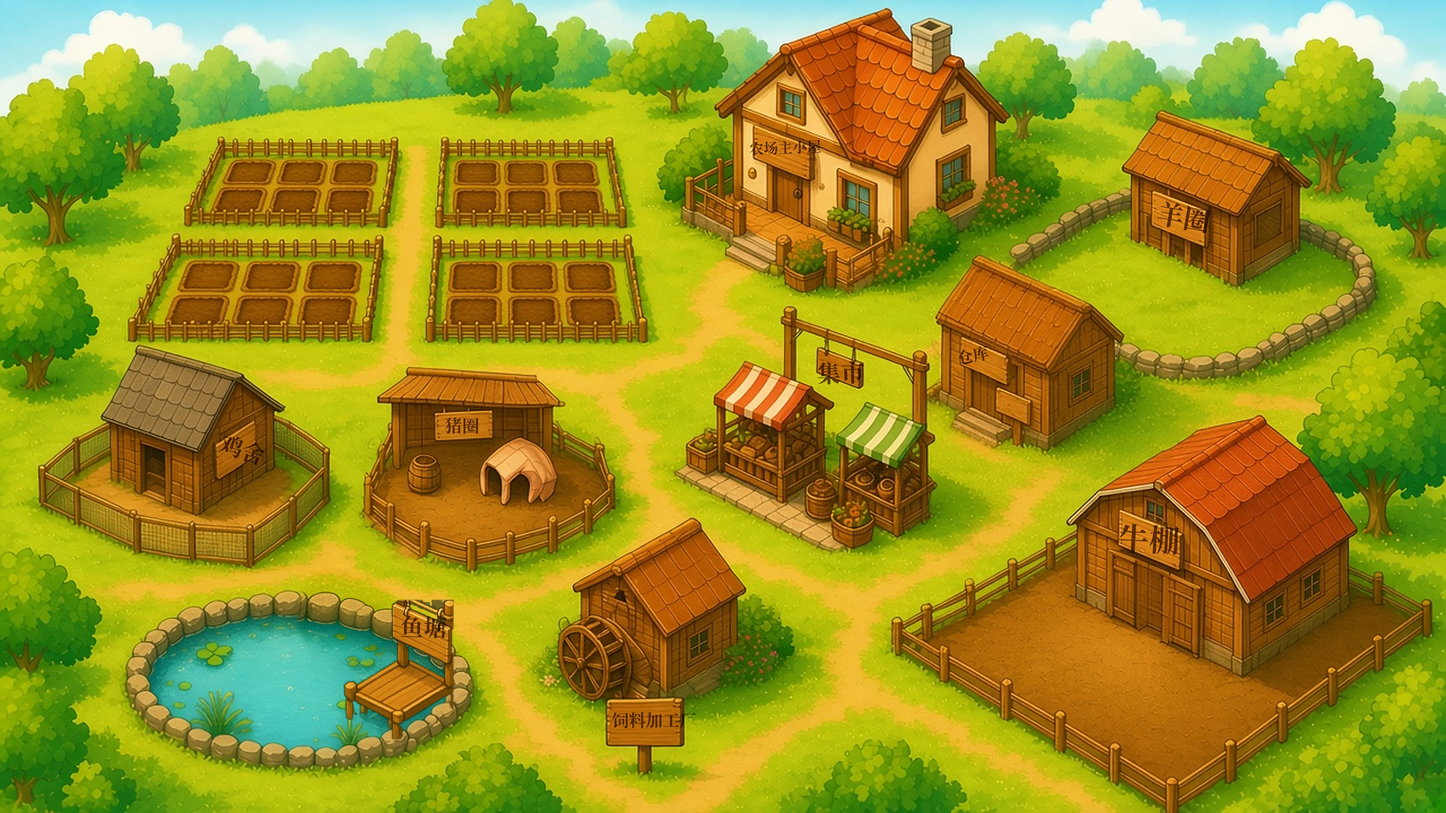
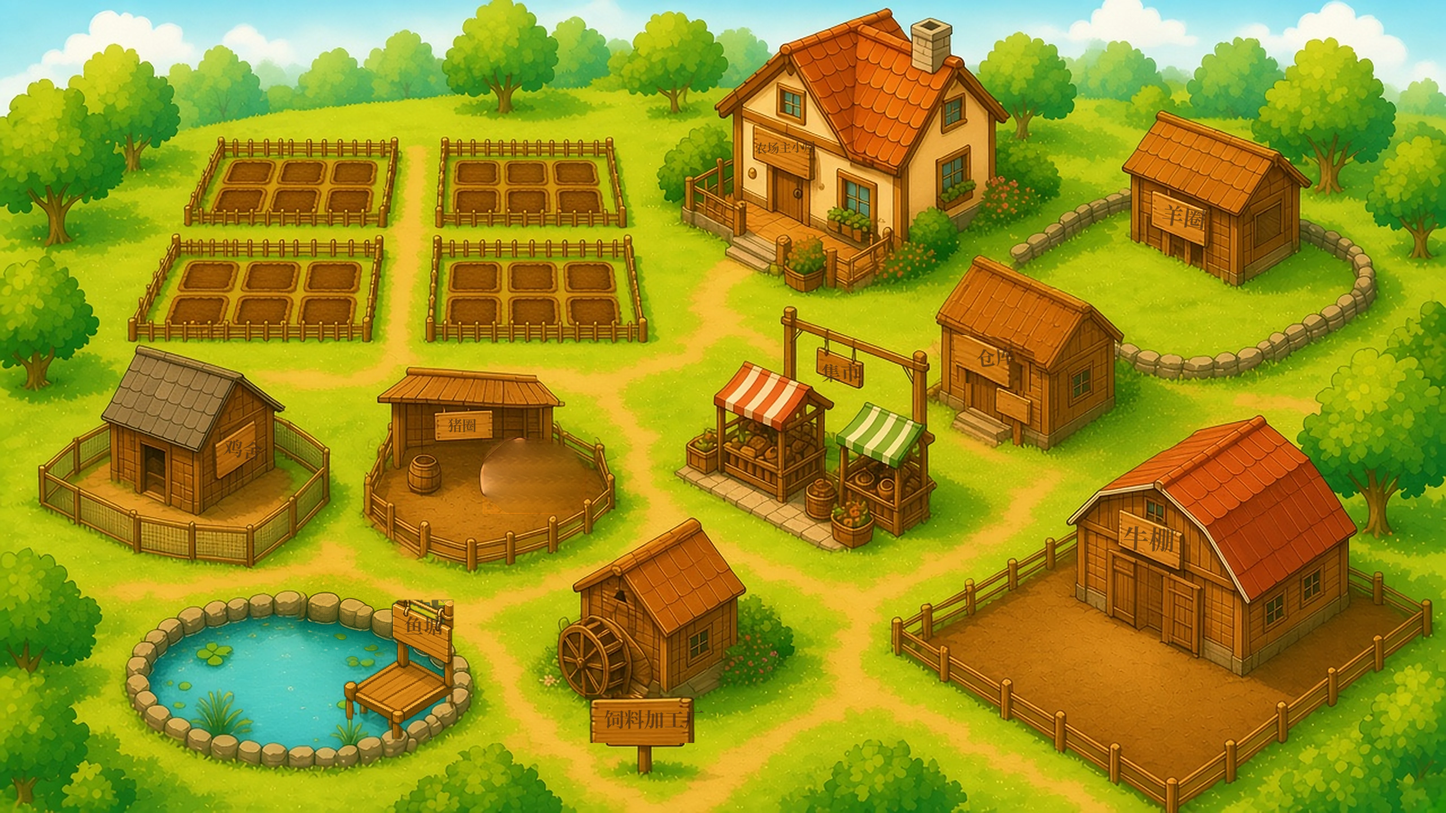
更新试玩版

diff --git a/src/render/mapLayout.js b/src/render/mapLayout.js
@@ -12,7 +12,7 @@ export const MAP_LAYOUT = {
     "w": 5120,
     "h": 2880
   },
-  "ANIMAL_SCALE": 1.17,
+  "ANIMAL_SCALE": 2.0,
   "FARMER_START": {
     "x": 2840,
     "y": 2040
@@ -967,77 +967,77 @@ export const MAP_LAYOUT = {
       "walk": [
         [
           1400,
-          1880
+          1872
         ],
         [
-          1380,
-          1780
+          1392,
+          1800
         ],
         [
-          1420,
-          1680
+          1440,
+          1712
         ],
         [
           1600,
+          1672
+        ],
+        [
+          1800,
           1660
         ],
         [
-          1660,
-          1760
+          2020,
+          1672
         ],
         [
-          1680,
-          1800
+          2140,
+          1728
         ],
         [
-          1960,
-          1800
+          2176,
+          1808
+        ],
+        [
+          2152,
+          1888
         ],
         [
           2000,
-          1760
+          1944
         ],
         [
-          2060,
-          1680
+          1780,
+          1968
         ],
         [
-          2088,
-          1780
+          1560,
+          1944
         ],
         [
-          2060,
-          1880
-        ],
-        [
-          1720,
-          1920
-        ],
-        [
-          1480,
+          1432,
           1912
         ]
       ],
       "slots": [
         {
           "index": 0,
-          "cx": 1520,
-          "cy": 1840
+          "cx": 1512,
+          "cy": 1880
         },
         {
           "index": 1,
-          "cx": 1720,
-          "cy": 1872
+          "cx": 1780,
+          "cy": 1912
         },
         {
           "index": 2,
-          "cx": 1960,
+          "cx": 2060,
           "cy": 1860
         },
         {
           "index": 3,
-          "cx": 2000,
-          "cy": 1820
+          "cx": 1880,
+          "cy": 1712
         }
       ]
     },
@@ -1149,22 +1149,22 @@ export const MAP_LAYOUT = {
         {
           "index": 0,
           "cx": 840,
-          "cy": 2440
+          "cy": 2432
         },
         {
           "index": 1,
-          "cx": 1000,
-          "cy": 2360
+          "cx": 992,
+          "cy": 2368
         },
         {
           "index": 2,
-          "cx": 1120,
-          "cy": 2480
+          "cx": 1128,
+          "cy": 2448
         },
         {
           "index": 3,
-          "cx": 920,
-          "cy": 2540
+          "cx": 912,
+          "cy": 2488
         }
       ]
     },
@@ -1361,8 +1361,8 @@ export const MAP_LAYOUT = {
         },
         {
           "index": 3,
-          "cx": 4600,
-          "cy": 2600
+          "cx": 4560,
+          "cy": 2612
         }
       ]
     },
@@ -1642,11 +1642,11 @@ export const MAP_LAYOUT = {
     {
       "id": "chicken",
       "text": "鸡舍",
-      "x": 768,
-      "y": 1512,
-      "w": 184,
-      "h": 152,
-      "angle": 18
+      "x": 772,
+      "y": 1520,
+      "w": 176,
+      "h": 136,
+      "angle": 8
     },
     {
       "id": "pig",
@@ -1673,16 +1673,16 @@ export const MAP_LAYOUT = {
       "y": 696,
       "w": 240,
       "h": 136,
-      "angle": 10
+      "angle": 8
     },
     {
       "id": "pond",
       "text": "鱼塘",
-      "x": 1404,
-      "y": 2136,
-      "w": 192,
-      "h": 160,
-      "angle": 1
+      "x": 1408,
+      "y": 2144,
+      "w": 184,
+      "h": 136,
+      "angle": 0
     },
     {
       "id": "market",
@@ -1696,28 +1696,28 @@ export const MAP_LAYOUT = {
     {
       "id": "shop",
       "text": "仓库",
-      "x": 3360,
-      "y": 1216,
-      "w": 168,
-      "h": 80,
-      "angle": -12
+      "x": 3400,
+      "y": 1200,
+      "w": 248,
+      "h": 120,
+      "angle": -7
     },
     {
       "id": "mill",
       "text": "饲料加工厂",
-      "x": 2144,
+      "x": 2088,
       "y": 2472,
-      "w": 344,
-      "h": 152,
+      "w": 456,
+      "h": 144,
       "angle": 0
     },
     {
       "id": "house",
       "text": "农场主小屋",
-      "x": 2632,
-      "y": 448,
-      "w": 296,
-      "h": 144,
+      "x": 2640,
+      "y": 456,
+      "w": 280,
+      "h": 128,
       "angle": -2
     }
   ]

diff --git a/src/render/farmView.js b/src/render/farmView.js
@@ -48,7 +48,26 @@ export function cameraForZone(layout, id) {
   if(!b)return null;
   return fitCamera(layout,b,id==='farm'?64:12,id==='farm'?80:id==='pig'?200:56);
 }
-export function fieldCamera(layout){const b=zoneBounds(layout,'farm');return fitCamera({...layout,cssH:Math.max(160,layout.cssH-82)},{x:b.x-35,y:b.y-35,w:b.w+70,h:b.h+100},70,85);}
+export function fieldCamera(layout){
+  const field=zoneBounds(layout,'farm');
+  const house=layout.zones.find(z=>z.id==='house').bounds;
+  const sign=MAP_LAYOUT.SIGNS.find(s=>s.id==='house');
+  const left=70,right=88,top=48,bottom=90;
+  const b={x:field.x-16,y:field.y-20,w:field.w+32,h:field.h+40};
+  let zoom=Math.max(WORLD.minZoom,Math.min(.85,(layout.cssW-left-right)/b.w,(layout.cssH-top-bottom)/b.h));
+  // Keep the cottage and its sign to the right of the shop button, even at x=0.
+  const hideAt=sign?sign.x:house.x;
+  zoom=Math.max(zoom,layout.cssW/Math.max(1,hideAt-8));
+  let x=left+(layout.cssW-left-right-b.w*zoom)/2-b.x*zoom;
+  let y=top+(layout.cssH-top-bottom-b.h*zoom)/2-b.y*zoom;
+  const maxRight=house.x-8;
+  if((layout.cssW-x)/zoom>maxRight)x=layout.cssW-maxRight*zoom;
+  const minLeft=field.x;
+  if(-x/zoom>minLeft)x=-minLeft*zoom+left;
+  const target={zoom,x,y};
+  clampCamera(target,layout.cssW,layout.cssH);
+  return target;
+}
 // Frame the cottage and all field beds, reserving the left navigation strip.
 export function homeCamera(layout) {
   const field=zoneBounds(layout,'farm'),house=layout.zones.find(z=>z.id==='house').bounds;
@@ -88,12 +107,12 @@ export function hitTestPlot(x, y, layout) {
 export function plotIndicatorSizes(zoom) {
   const bounded = (size, min, max) => Math.min(max, Math.max(min, size * zoom)) / zoom;
   return {
-    font: bounded(11, 12, 17),
-    barWidth: bounded(52, 40, 72),
-    barHeight: bounded(5, 4, 7),
+    font: bounded(8, 7.5, 11),
+    barWidth: bounded(34, 28, 46),
+    barHeight: bounded(3.2, 2.6, 4),
     sparkle: bounded(8, 3.2, 9),
-    gap: 4 / zoom,
-    stroke: bounded(2, 1.5, 2.5),
+    gap: 2 / zoom,
+    stroke: bounded(1.4, 1.1, 2),
   };
 }
 function drawStarSparkle(ctx,x,y,r,alpha){
@@ -131,11 +150,11 @@ export function drawFarm(ctx, state, layout, { now = Date.now(), animationNow = 
     const neighbors=corners.filter(c=>c!==tl && c!==opposite).sort((a,b)=>b[0]-a[0]);
     const [tr,bl]=neighbors,br=opposite;
     const shortAxis=Math.min(Math.hypot(tr[0]-tl[0],tr[1]-tl[1]),Math.hypot(bl[0]-tl[0],bl[1]-tl[1]));
-    const width=shortAxis*(frame===0?.50:ripe?.48:.53),height=width*(tall?1.38:1.05);
+    const width=shortAxis*(frame===0?.62:ripe?.70:.72),height=width*(tall?1.32:1.02);
     const cols=ripe && ['cabbage','pumpkin','potato'].includes(view.crop.id)?3:4;
     const plants=[];
     for(let row=0;row<3;row++)for(let col=0;col<cols;col++) {
-      const u=.14+.72*(col+.5)/cols,v=(tall?.36:.14)+(tall?.54:.72)*(row+.5)/3;
+      const u=.10+.80*(col+.5)/cols,v=(tall?.32:.10)+(tall?.60:.80)*(row+.5)/3;
       plants.push({x:(1-u)*(1-v)*tl[0]+u*(1-v)*tr[0]+(1-u)*v*bl[0]+u*v*br[0],
         y:(1-u)*(1-v)*tl[1]+u*(1-v)*tr[1]+(1-u)*v*bl[1]+u*v*br[1]});
     }
@@ -154,10 +173,12 @@ export function drawFarm(ctx, state, layout, { now = Date.now(), animationNow = 
       }
     } else {
       const {barWidth,barHeight,font,gap}=indicator;
-      const x=p.cx-barWidth/2,y=p.y-gap-barHeight;
+      const backY=Math.min(...corners.map(c=>c[1]));
+      // Sit the tidy timer just inside this bed's back edge so it does not cover the plot above.
+      const x=p.cx-barWidth/2,y=backY+gap;
       fillRoundRect(ctx,x,y,barWidth,barHeight,barHeight/2,'#593c2e');
       fillRoundRect(ctx,x,y,barWidth*view.progress,barHeight,barHeight/2,'#a9e873');
-      drawText(ctx,formatMs(view.remainingMs),p.cx,y-gap-font/2,{size:font,color:'#fff7df',shadow:true});
+      drawText(ctx,formatMs(view.remainingMs),p.cx,y-gap-font*0.45,{size:font,color:'#fff7df',shadow:true});
     }
   }
   drawLivestock(ctx,state,layout,animationNow,now);

diff --git a/src/render/livestockView.js b/src/render/livestockView.js
@@ -91,7 +91,18 @@ export function hitTestLivestock(x,y,layout,views) {
   return [...views].filter(v=>v.status!=='empty').sort((a,b)=>b.y-a.y).find(v=>{const {width,height}=animalSize(v.kind,v.zoneId==='pond');return Math.abs(x-v.x)<=width/2 && y>=v.y-(v.zoneId==='pond'?height/2:height) && y<=v.y+(v.zoneId==='pond'?height/2:0);})||null;
 }
 // One roof reminder per livestock building, sharing drawing and hit geometry.
-export function animalBubbles(views,t=0,state=null,zoom=1) {
+function clampBubbleToViewport(b,layout){
+  if(!layout||layout.cssW==null||!layout.camera)return b;
+  const {camera,cssW,cssH}=layout,z=Math.max(0.05,camera.zoom||1),r=b.r*z;
+  const padL=64,padR=80,padT=44,padB=10;
+  let sx=b.x*z+camera.x,sy=b.y*z+camera.y;
+  const minX=padL+r,maxX=cssW-padR-r,minY=padT+r,maxY=cssH-padB-r;
+  if(maxX>=minX)sx=Math.max(minX,Math.min(maxX,sx));
+  if(maxY>=minY)sy=Math.max(minY,Math.min(maxY,sy));
+  b.x=(sx-camera.x)/z;b.y=(sy-camera.y)/z;
+  return b;
+}
+export function animalBubbles(views,t=0,state=null,zoom=1,layout=null) {
   if(state)views=Object.entries(state.pens).flatMap(([zoneId,slots])=>slots.map((o,index)=>({...getOccupantView(o),zoneId,index})).filter(v=>v.status!=='empty'));
   const icons={chicken:'egg',sheep:'wool',pig:'pork',cow:'beef',pond:'fish'},bubbles=[];
   const r=bubbleWorldRadius(zoom);
@@ -101,6 +112,7 @@ export function animalBubbles(views,t=0,state=null,zoom=1) {
     const z=MAP_LAYOUT.ZONES[zoneId],roof=z.roof || {x:z.bounds.x+z.bounds.w/2,y:z.bounds.y};
     const b={zoneId,index:null,aggregated:true,action:'open-zone',count:active.length,label:ready.length?'收获':'喂饲料',icon:`icons/${ready.length?icons[zoneId]:'feed'}.webp`,x:roof.x,y:roof.y-r-32,r,zoom,targetX:roof.x,targetY:roof.y-12};
     for(const other of bubbles)if(Math.abs(b.y-other.y)<r+other.r+8 && Math.abs(b.x-other.x)<r+other.r+12)b.x=other.x+r+other.r+12;
+    clampBubbleToViewport(b,layout);
     bubbles.push(b);
   }
   return bubbles;
@@ -145,6 +157,6 @@ export function drawLivestock(ctx,state,layout,t,now) {
   const views=livestockViews(state,layout,t,now);
   for(const v of views.filter(v=>v.status!=='empty').sort((a,b)=>a.y-b.y))animal(ctx,v,t);
   for(const front of Object.values(MAP_LAYOUT.FRONTS))drawSprite(ctx,front.file,front.x,front.y,front.w,front.h);
-  for(const b of animalBubbles(views,t,state,layout.camera.zoom))drawAnimalBubble(ctx,b);
+  for(const b of animalBubbles(views,t,state,layout.camera.zoom,layout))drawAnimalBubble(ctx,b);
   return views;
 }

diff --git a/src/main.js b/src/main.js
@@ -258,7 +258,7 @@ function tap(x, y) {
   if(hit){if(!farmMode){enterFarmMode(hit.index);return;}selectedPlotIndex=hit.index;}
   else {
     setFarmMode(false);
-    const animalBubble=hitTestAnimalBubble(x,y,layout,animalBubbles(drawnLivestock,lastAnimationNow,state,layout.camera.zoom));
+    const animalBubble=hitTestAnimalBubble(x,y,layout,animalBubbles(drawnLivestock,lastAnimationNow,state,layout.camera.zoom,layout));
     const animal=hitTestLivestock(x,y,layout,drawnLivestock);
     const target=animalBubble?.zoneId || animal?.zoneId || hitTestZone(x,y,layout)?.id;
     if(target){openZone(target);return;}
@@ -442,7 +442,7 @@ function exposeDebug() {
     setDebugOverlay: flags => {for(const key of ['plots','walk'])if(key in flags)debugOverlay[key]=!!flags[key];return {...debugOverlay};},
     getDebugOverlay:()=>({...debugOverlay}),
     getUI:()=>({farmMode,trayOpen,chromeVisible,openZone:openZoneId}),
-    getAnimalBubbles:()=>animalBubbles(drawnLivestock,lastAnimationNow,state,layout.camera.zoom),
+    getAnimalBubbles:()=>animalBubbles(drawnLivestock,lastAnimationNow,state,layout.camera.zoom,layout),
     getLivestockViews:()=>livestockViews(state,layout,lastAnimationNow),
     mapInput,
     isPortraitRotated,
